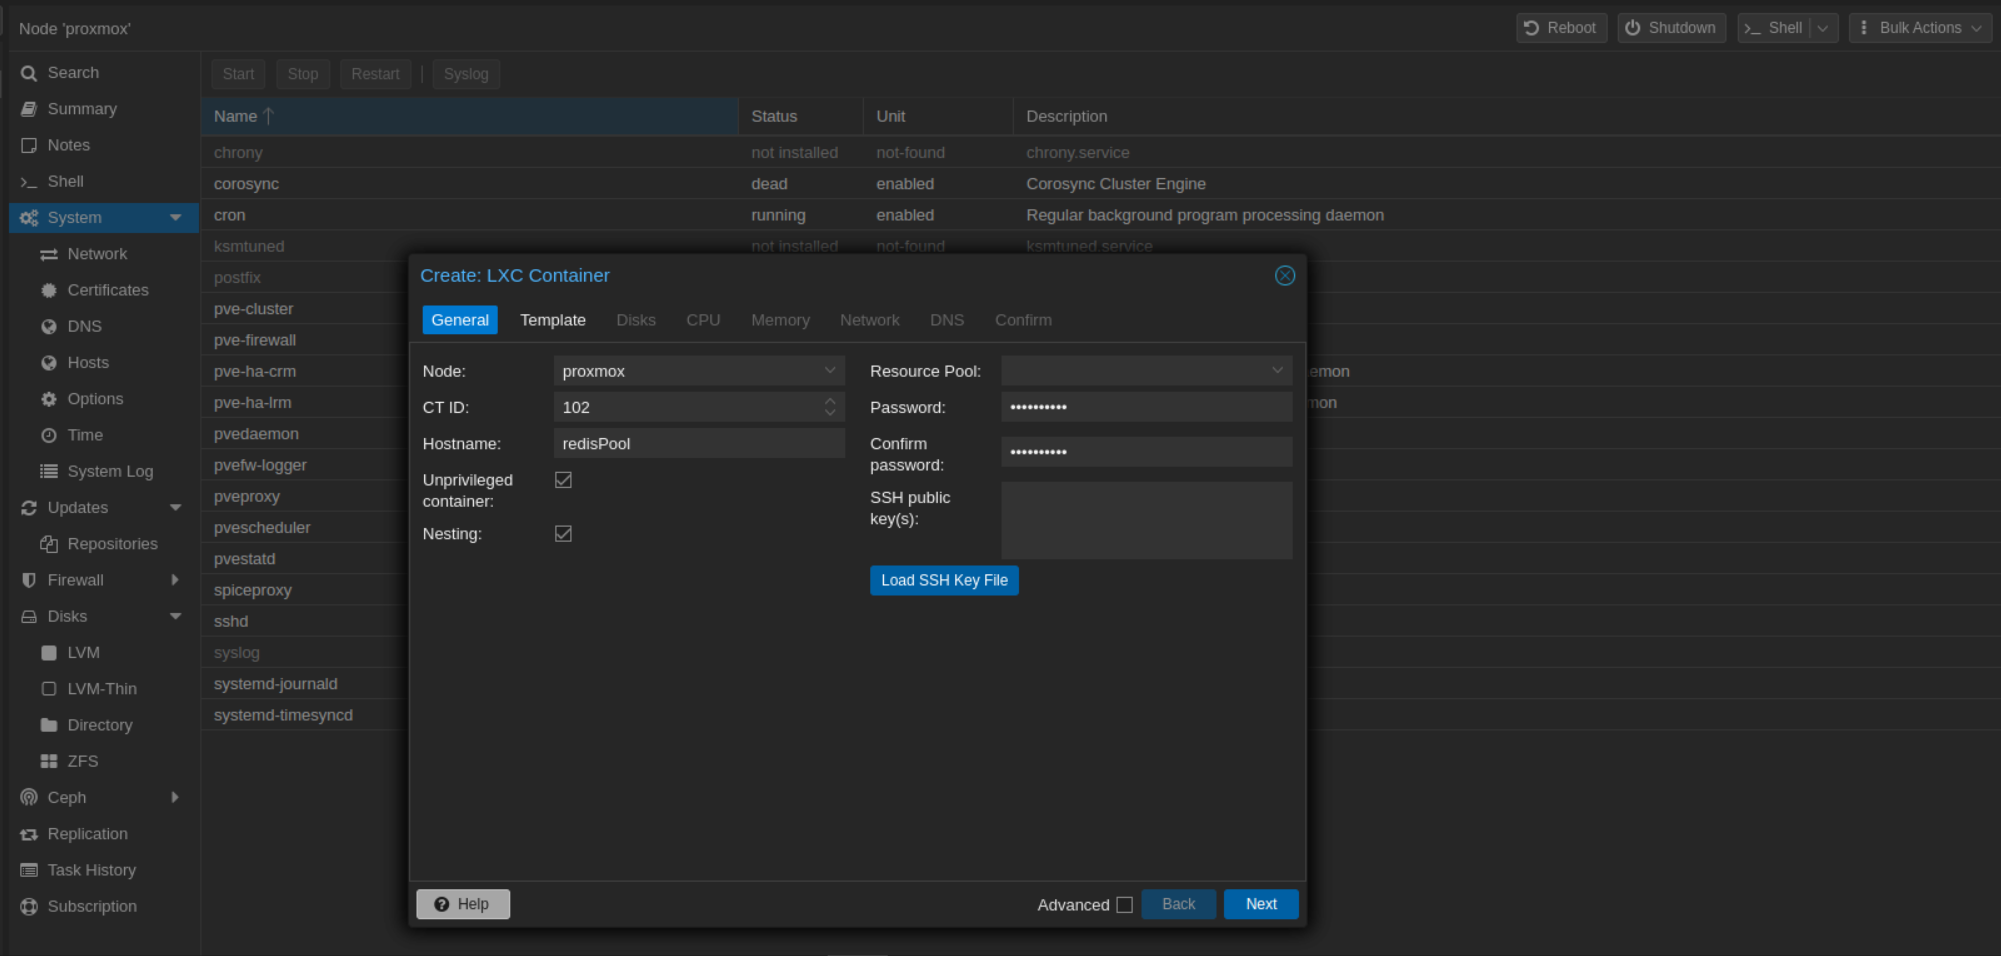
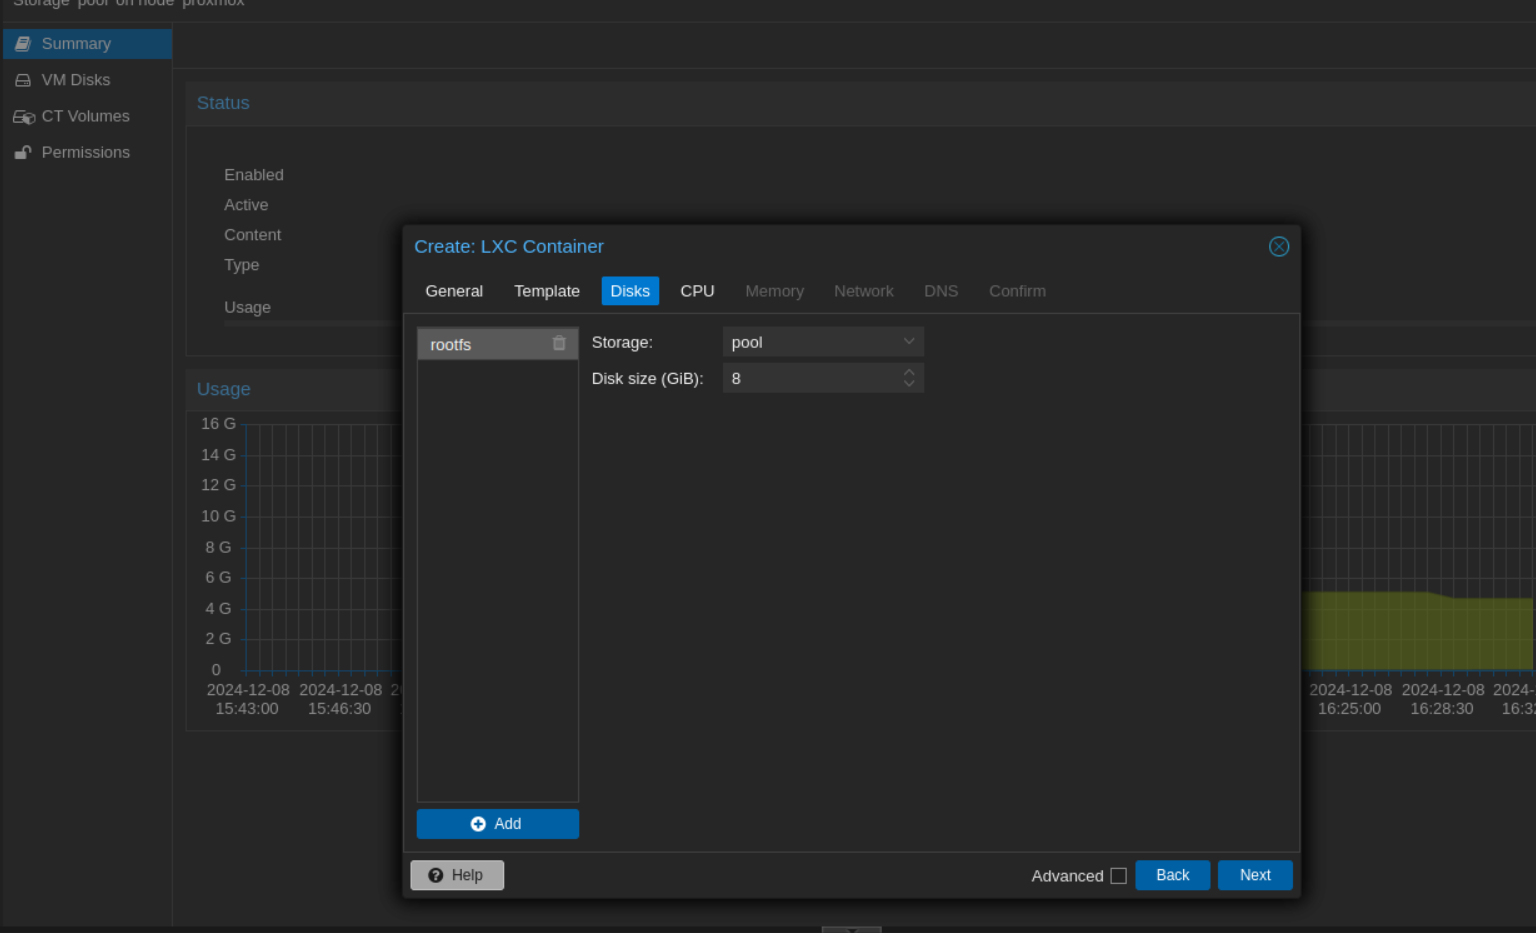
add proxmox lab 3

diff --git a/proxmox/lab_3/REPORT.md b/proxmox/lab_3/REPORT.md
@@ -1,9 +1,101 @@
-# Лабораторная работа №3
+# Лабораторная работа №3 - Настройка объектного хранилища _Ceph_
 
 ## Цель работы
 
+Научится устанавливать и настраивать объектное хранилища _Ceph_, познакомиться с принципами работы.
+
 ## Ход работы
 
+### 1. Подключение доп. дисков к _Proxmox_
+
+Для установки и настройки _Ceph_ нам потребуются дополнительные диски, которые не используются самим _Proxmox_. 
+Поэтому подключим к нашей ВМ два диска. 
+В _VirtualBox_ выбираем пункт `Настроить` → `Носители` → `Контроллеры SATA` → `Добавить жесткий диск` → `Создать`. 
+
+![Изображение](./img/1.png)
+
+Установим следующие параметры:
+* **Формат**: VHD;
+* **Место** В полном размере;
+* **Объем**: От 5 до 20гб;
+* **Имя**: `ceph_1` и `ceph_2`.
+
+Подключаем диски:
+
+![Изображение](./img/2.png)
+
+Запускаем ВМ и проверяем, что Proxmox видит наши диски:
+
+![Изображение](./img/3.png)
+
+### 2. Установка _Ceph_
+
+В меню находим пункт `Ceph`. Так как у нас его еще нет, _Proxmox_ предложит установить его. 
+Устанавливаем, не забывая выбрать репозиторий `No-subscription` (поскольку у нас бесплатная версия).
+В разделе `Configuration` выбираем нашу сеть.
+
+![Изображение](./img/4.png)
+
+> В разделе Ceph должно отобразиться текущие состояние. Сначала статус будет зеленый, но затем сменится на желтый,
+> не стоит этого пугаться т.к. в наш _Ceph_ не добавлены сами диски для работы (_OSD_).
+
+![Изображение](./img/5.png)
+
+### 3. Настройка _Ceph_
+
+В разделе `Ceph` выбираем пункт `OSD` и добавляем наши два диска в кластер с помощью кнопки `Create OSD` 
+(параметры оставим по умолчанию). После непродолжительного ожидания нажимаем `Reload` и видим, что два новых _OSD_ диска 
+появились и находятся в состоянии _up_.
+
+![Изображение](./img/6.png)
+
+Создаем дисковый пул в разделе `Pools`. Имя пула может быть любым, а размер устанавливаем немного меньше суммы объемов 
+двух дисков. Теперь этот пул можно использовать в качестве источника хранения при создании виртуальных машин или 
+контейнеров (в разделе `Disks` при создании).
+
+![Изображение](./img/7.png)
+
+## Задание
+
+Создать контейнер из доступных шаблонов или выбрать любой другой, выбрав в качестве системы хранения не локальный диск, 
+а пул, созданный на **шаге 7**. Способ создания - через веб-интерфейс или командную строку 
+(см. [Лабораторную работу №2](../lab_2/REPORT.md)).
+
+<details>
+  <summary>Решение</summary>
+  В левом меню выбираем в качестве хранилища наш pool и нажимаем кнопку Create CT, действуем аналогично как в 
+  лабораторной работе №2.
+  
+  ![Изображение](./img/8.png)
+   
+   Но с одним отличием, в качестве диска выбираем наш pool.
+  
+  ![Изображение](./img/9.png)
+
+  В результате получаем контейнер в объектном хранилище.
+</details>
+
+## Вопрос - ответ
+
+**Вопрос**: Чем объектное хранилище отличается от обычного?
+
+<details>
+  <summary>Ответ</summary>
+  Вместо привычной файловой системы используется единое пространство, заполненное множеством объектов. 
+  Каждый объект имеет свой уникальный идентификатор и метаданные. Это позволяет работать с огромными объемами информации.
+
+  Такое хранилище часто применяют для хранения резервных копий данных и восстановления информации в случае аварий.
+
+  Объектное хранилище идеально подходит для работы с большими объемами данных и сложными задачами управления информацией, 
+  тогда как файловое хранилище удобнее использовать для небольших и разнообразных наборов данных.
+</details>
+
+
 ## Вывод
+
+В результате:
+- Узнали, что такое объектное хранилища, принцип его работы и когда лучше использовать;
+- Научились устанавливать и настраивать объектное хранилища _Ceph_ в _Proxmox_;
+- Научились развертывать контейнеры внутри объектного хранилища.
 
 [назад](../lab_2/REPORT.md) | [меню](../../README.md)

diff --git a/proxmox/lab_2/REPORT.md b/proxmox/lab_2/REPORT.md
@@ -128,17 +128,24 @@ IP/port из 2 шага. Также отключите `Memcache`, удалив 
 
 **Вопрос**: Почему неправильная конфигурация на шаге 1 приведет (вероятнее всего) к полной потере сетевой доступности?
 
-**Ответ**: Происходит создание сетевого бриджа, который заменяет текущий сетевой интерфейс и неправильная конфигурация 
-может привести к тому, что _Proxmox_ не сможет правильно связаться с внешней сетью. Т.к. интерфейс не будет иметь 
-корректной конфигурации для маршрутизации трафика, и соответственно, может потерять доступ ко всему сетевому 
-окружению, включая веб-интерфейс управления _Proxmox_.
+<details>
+  <summary>Ответ</summary>
+  Происходит создание сетевого бриджа, который заменяет текущий сетевой интерфейс и неправильная конфигурация 
+  может привести к тому, что Proxmox не сможет правильно связаться с внешней сетью. Т.к. интерфейс не будет иметь 
+  корректной конфигурации для маршрутизации трафика, и соответственно, может потерять доступ ко всему сетевому 
+  окружению, включая веб-интерфейс управления Proxmox.
+</details>
+
 
 **Вопрос**: Почему адрес шлюза `default gateway` ВМ выглядит как `10.0.2.2`, а не `10.0.2.1`?
 
-**Ответ**: Это происходит из-за конфигурации _VirtualBox_, которая создает NAT-сетевой интерфейс для ВМ. В данном 
-случаи _VirtualBox_ использует адрес `10.0.2.2` как шлюз для сетей NAT. Это позволяет ВМ использовать данный адрес 
-для подключения к внешним сетям через хостовую машину (где и находится _Proxmox_ с _VirtualBox_). 
-То есть `10.0.2.2`, а не `10.0.2.1` - назначается _VirtualBox_ в качестве линка между ВМ и остальной частью сети.
+<details>
+  <summary>Ответ</summary>
+  Это происходит из-за конфигурации VirtualBox, которая создает NAT-сетевой интерфейс для ВМ. В данном 
+  случаи VirtualBox использует адрес 10.0.2.2 как шлюз для сетей NAT. Это позволяет ВМ использовать данный адрес 
+  для подключения к внешним сетям через хостовую машину (где и находится Proxmox с VirtualBox). 
+  То есть 10.0.2.2, а не 10.0.2.1 - назначается VirtualBox в качестве линка между ВМ и остальной частью сети.
+</details>
 
 ## Вывод
 
